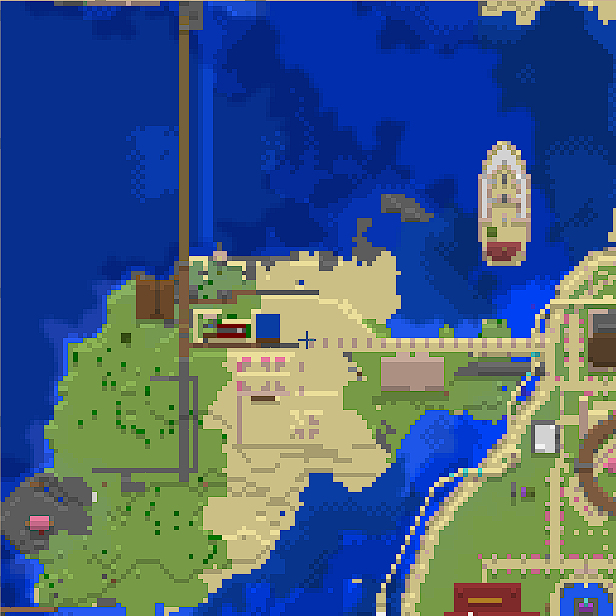
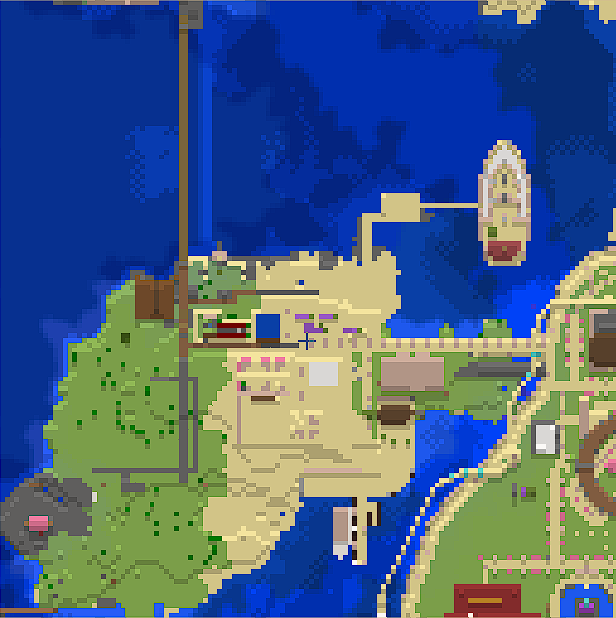
update map

diff --git a/index.html b/index.html
@@ -54,26 +54,28 @@
       minZoom: -1
     });
 
+
+    var mapVersion = "?ver=1"
     // マップの画像（事前に用意したスクショ画像）
     // 2枚のマップ画像を並べる
-    var image1 = L.imageOverlay('mapData/0_0.png', [[0, 0], [500, 500]]).addTo(map);
-    var image2 = L.imageOverlay('mapData/0_1.png', [[0, 500], [500, 500 * 2]]).addTo(map);
-    var image3 = L.imageOverlay('mapData/-1_0.png', [[-500, 0], [0, 500]]).addTo(map);
-    var image4 = L.imageOverlay('mapData/-1_1.png', [[-500, 500], [0, 500 * 2]]).addTo(map);
-    var image5 = L.imageOverlay('mapData/1_0.png', [[500, 0], [500 * 2, 500]]).addTo(map);
-    var image6 = L.imageOverlay('mapData/1_1.png', [[500, 500], [500 * 2, 500 * 2]]).addTo(map);
-    var image7 = L.imageOverlay('mapData/0_-1.png', [[0, -500], [500, 0]]).addTo(map);
-    var image8 = L.imageOverlay('mapData/-1_-2.png', [[-500, -500 * 2], [0, -500]]).addTo(map);
-    var image9 = L.imageOverlay('mapData/1_-2.png', [[500, -500 * 2], [500 * 2, -500]]).addTo(map);
-    var image10 = L.imageOverlay('mapData/1_-1.png', [[500, -500], [500 * 2, 0]]).addTo(map);
-    var image11 = L.imageOverlay('mapData/0_-2.png', [[0, -500 * 2], [500, -500]]).addTo(map);
-    var image12 = L.imageOverlay('mapData/-1_-1.png', [[-500, -500], [0, 0]]).addTo(map);
-    var image13 = L.imageOverlay('mapData/-1_2.png', [[-500, 500 * 2], [0, 500 * 3]]).addTo(map);
-    var image14 = L.imageOverlay('mapData/0_2.png', [[0, 500 * 2], [500, 500 * 3]]).addTo(map);
-    var image15 = L.imageOverlay('mapData/1_2.png', [[500, 500 * 2], [500 * 2, 500 * 3]]).addTo(map);
-    var image16 = L.imageOverlay('mapData/2_0.png', [[500 * 2, 0], [500 * 3, 500]]).addTo(map);
-    var image17 = L.imageOverlay('mapData/3_0.png', [[500 * 3, 0], [500 * 4, 500]]).addTo(map);
-    var image18 = L.imageOverlay('mapData/3_-1.png', [[500 * 3, -500], [500 * 4, 0]]).addTo(map);
+    var image1 = L.imageOverlay('mapData/0_0.png'+mapVersion, [[0, 0], [500, 500]]).addTo(map);
+    var image2 = L.imageOverlay('mapData/0_1.png'+mapVersion, [[0, 500], [500, 500 * 2]]).addTo(map);
+    var image3 = L.imageOverlay('mapData/-1_0.png'+mapVersion, [[-500, 0], [0, 500]]).addTo(map);
+    var image4 = L.imageOverlay('mapData/-1_1.png'+mapVersion, [[-500, 500], [0, 500 * 2]]).addTo(map);
+    var image5 = L.imageOverlay('mapData/1_0.png'+mapVersion, [[500, 0], [500 * 2, 500]]).addTo(map);
+    var image6 = L.imageOverlay('mapData/1_1.png'+mapVersion, [[500, 500], [500 * 2, 500 * 2]]).addTo(map);
+    var image7 = L.imageOverlay('mapData/0_-1.png'+mapVersion, [[0, -500], [500, 0]]).addTo(map);
+    var image8 = L.imageOverlay('mapData/-1_-2.png'+mapVersion, [[-500, -500 * 2], [0, -500]]).addTo(map);
+    var image9 = L.imageOverlay('mapData/1_-2.png'+mapVersion, [[500, -500 * 2], [500 * 2, -500]]).addTo(map);
+    var image10 = L.imageOverlay('mapData/1_-1.png'+mapVersion, [[500, -500], [500 * 2, 0]]).addTo(map);
+    var image11 = L.imageOverlay('mapData/0_-2.png'+mapVersion, [[0, -500 * 2], [500, -500]]).addTo(map);
+    var image12 = L.imageOverlay('mapData/-1_-1.png'+mapVersion, [[-500, -500], [0, 0]]).addTo(map);
+    var image13 = L.imageOverlay('mapData/-1_2.png'+mapVersion, [[-500, 500 * 2], [0, 500 * 3]]).addTo(map);
+    var image14 = L.imageOverlay('mapData/0_2.png'+mapVersion, [[0, 500 * 2], [500, 500 * 3]]).addTo(map);
+    var image15 = L.imageOverlay('mapData/1_2.png'+mapVersion, [[500, 500 * 2], [500 * 2, 500 * 3]]).addTo(map);
+    var image16 = L.imageOverlay('mapData/2_0.png'+mapVersion, [[500 * 2, 0], [500 * 3, 500]]).addTo(map);
+    var image17 = L.imageOverlay('mapData/3_0.png'+mapVersion, [[500 * 3, 0], [500 * 4, 500]]).addTo(map);
+    var image18 = L.imageOverlay('mapData/3_-1.png'+mapVersion, [[500 * 3, -500], [500 * 4, 0]]).addTo(map);
 
     // マップの表示範囲
     var bounds = [[-500, -500 * 2], [500 * 4, 500 * 3]]; // 全体をカバーするサイズ
@@ -81,7 +83,7 @@
 
     // 地点マーカーを置く
     var marker = L.marker([90, 490]).addTo(map)
-      .bindPopup('<h2>マセイモ島</h2><p>座標: 1220 72 900<br>居住者: 塩ポテト君</p><img style="width: 300px;" src="images/maseimo_island.png">');
+      .bindPopup('<h2>マセイモ島</h2><p>座標: 1220 72 900<br>居住者: 塩ポテト君</p><img style="width: 300px;" src="images/maseimo_island.png?ver=1">');
     var marker2 = L.marker([300, 780]).addTo(map)
       .bindPopup('<h2>すしすきー大学</h2><p>座標: 1360 70 750<br>制作者: 塩ポテト君</p><img style="width: 300px;" src="images/sushi_uni.png">');
     var marker3 = L.marker([250, 1140]).addTo(map)
@@ -172,6 +174,12 @@
       .bindPopup('<h2>日付カウントアップ回路見学路</h2><p>制作者: 塩ポテト君</p><img style="width: 300px;" src="images/count2.png">');
     var marker46 = L.marker([260, 490]).addTo(map)
       .bindPopup('<h2>マセイモ島案内図</h2><p>制作者: 塩ポテト君</p>');
+    var marker47 = L.marker([80, 300]).addTo(map)
+      .bindPopup('<h2>ポテト港-イモガンダム前</h2><p>座標: 1108 65 908<br>制作者: 塩ポテト君</p><img style="width: 300px;" src="images/imoshipsakura.png">');
+    var marker48 = L.marker([140, 320]).addTo(map)
+      .bindPopup('<h2>イモガンダム</h2><p>座標: 1123 65 892<br>制作者: 塩ポテト君</p><img style="width: 300px;" src="images/imogandam.png">');
+    var marker49 = L.marker([230, 270]).addTo(map)
+      .bindPopup('<h2>ナス公園（笑）</h2><p>制作者: 塩ポテト君</p><img style="width: 300px;" src="images/nasupark.png">');
 
     // 線路用のレイヤーグループを作る
     var railwayLayer = L.layerGroup([]);
